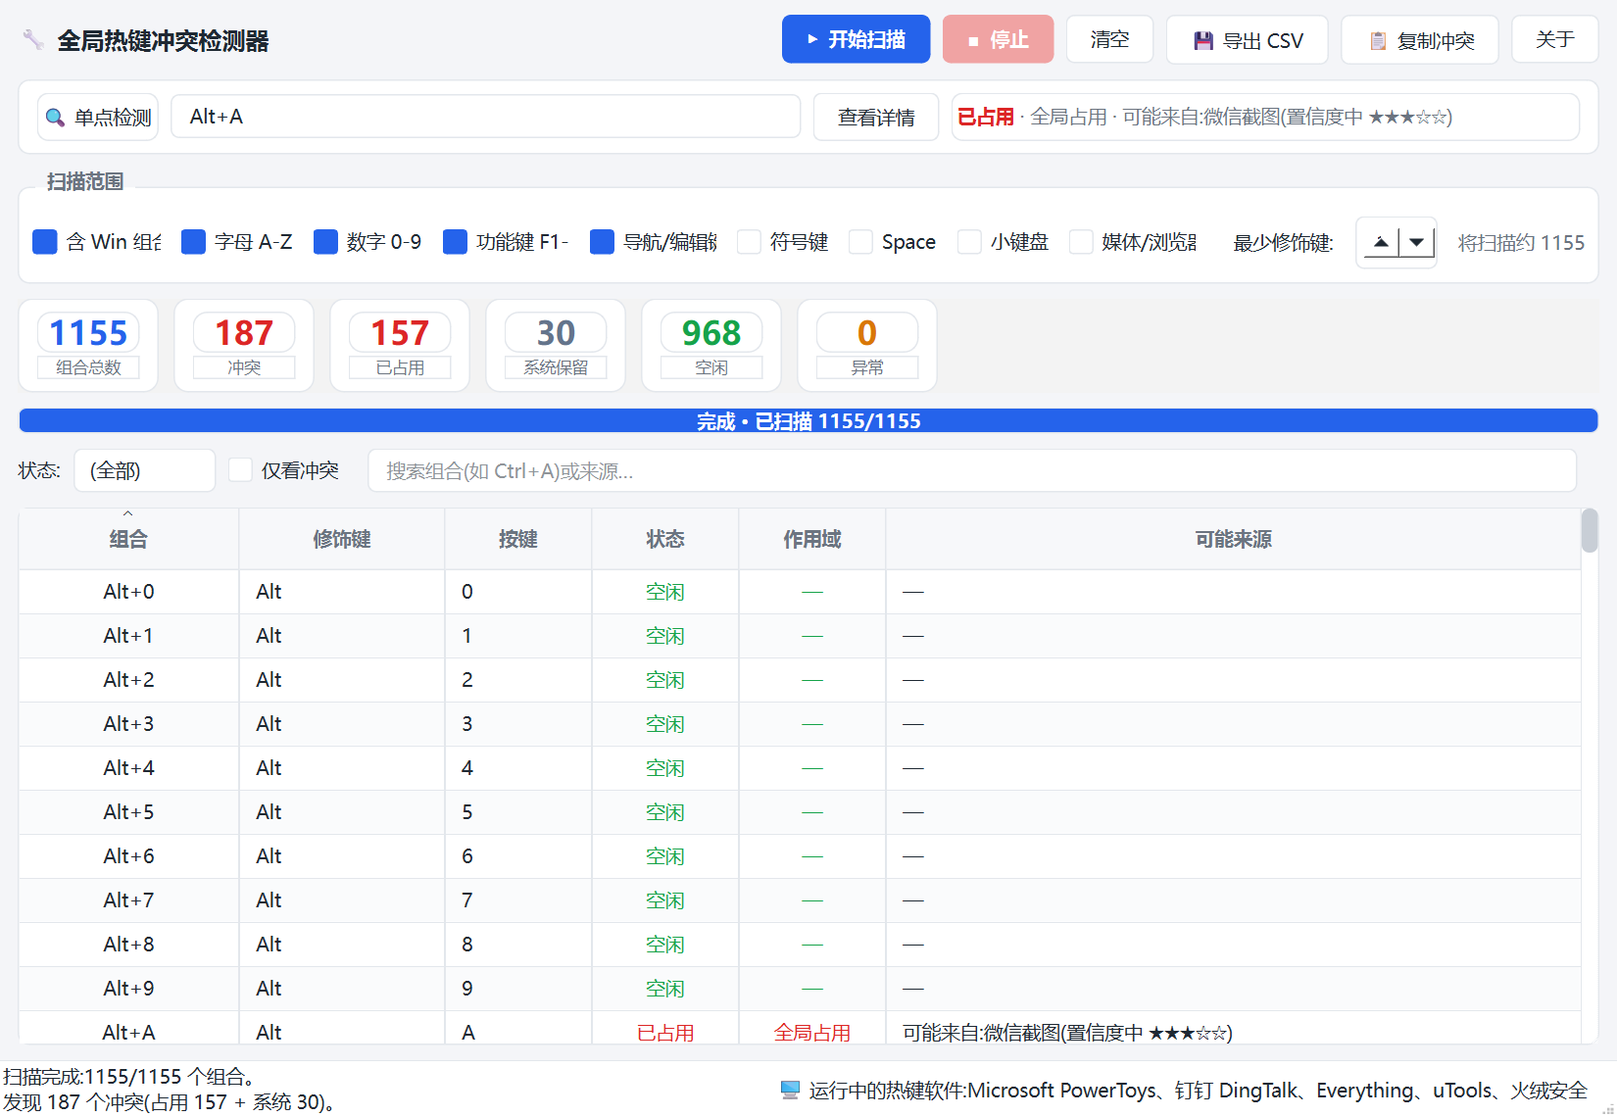
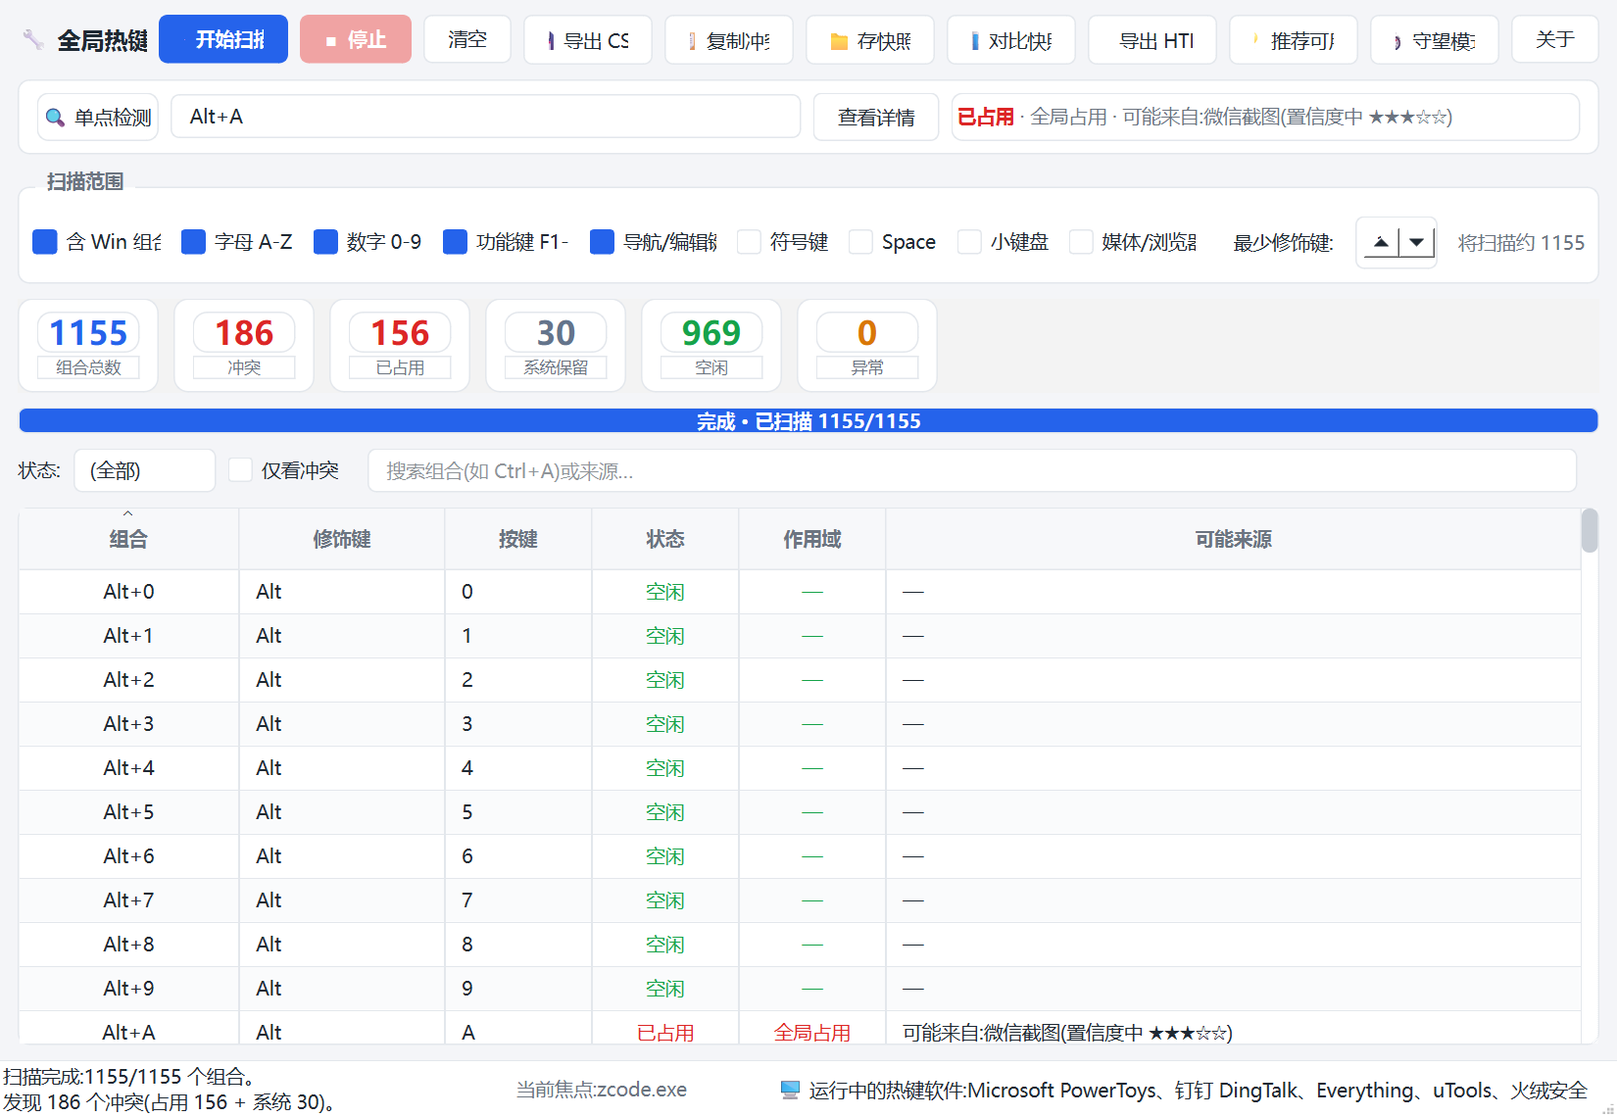
docs(README): v1.3.0 重写——诊断链路定位 + AI 章节 + 星级语义 + 更新日志 + Star 引导
- tagline 升级为「不只告诉你哪个热键被占,还帮你推断是谁占的」,加英文副标
- 功能特性补齐 v1.2/v1.3(嫌疑度排序、AI 分析、快照热键软件关联、守望)
- 新增「AI 辅助分析」章节(配置/隐私边界/http 提示)与「星级语义」说明
- 项目结构同步现状(core 零 Qt 分层 / scan_thread / workers / suspect / ai_analyze)
- CI 说明更新(unit 阻塞 + smoke 容错);新增 Downloads badge
- 更新日志折叠(1.0→1.3);结尾 Star 引导
- 用 capture_preview.py 重截三张图(detail 现含嫌疑度排序 + AI 按钮)

diff --git a/README.md b/README.md
@@ -2,44 +2,50 @@
 
 # ⌨ 全局热键冲突检测器
 
-**一个 Windows 桌面工具,扫描系统中已被占用的全局热键组合,帮你排查快捷键冲突。**
+**Hotkey Conflict Detector — 不只告诉你哪个热键被占,还帮你推断是谁占的。**
+
+一个 Windows 桌面工具:秒级扫描所有全局热键组合,推断占用来源嫌疑度,
+守望「时好时坏」的间歇占用,快照对比装机前后的差异。
 
 ![Version](https://img.shields.io/github/v/release/hss-ai/hotkey-conflict-detector?label=%E7%89%88%E6%9C%AC&logo=git)
 ![License](https://img.shields.io/github/license/hss-ai/hotkey-conflict-detector?color=blue)
 ![Python](https://img.shields.io/badge/Python-3.10%2B-blue?logo=python&logoColor=white)
 ![Platform](https://img.shields.io/badge/Platform-Windows-0078D6?logo=windows&logoColor=white)
 ![CI](https://img.shields.io/github/actions/workflow/status/hss-ai/hotkey-conflict-detector/ci.yml?label=CI&logo=githubactions&logoColor=white)
+![Downloads](https://img.shields.io/github/downloads/hss-ai/hotkey-conflict-detector/total?color=brightgreen&label=%E4%B8%8B%E8%BD%BD)
 
-[⬇ 下载 exe](#-快速开始) · [📖 文档](#-工作原理) · [🐛 报告问题](https://github.com/hss-ai/hotkey-conflict-detector/issues)
+[⬇ 下载 exe](#-快速开始) · [✨ 功能](#-功能特性) · [📖 工作原理](#-工作原理) · [🤖 AI 分析](#-ai-辅助分析可选) · [🐛 报告问题](https://github.com/hss-ai/hotkey-conflict-detector/issues)
 
 ---
 
-<img src="assets/preview.png" alt="主界面" width="860">
+<img src="assets/preview.png" alt="主界面:统计卡片 + 组合表格 + 单点检测" width="860">
 
 </div>
 
 ## 🎯 解决什么问题
 
-装了一堆软件后,快捷键经常打架:微信截图、QQ 截图、Snipaste、输入法、PowerToys……各自占了一堆 `Ctrl+Alt+X` / `Alt+Y`,你想设一个新的全局热键却总是"注册失败",又不知道是谁在抢。
+装了一堆软件后,快捷键经常打架:微信截图、QQ 截图、Snipaste、输入法、PowerToys……各自占了一堆 `Ctrl+Alt+X` / `Alt+Y`。你想给新软件设一个全局热键,却总是"注册失败",又不知道是谁在抢。
 
-本工具逐个探测所有常见的修饰键 + 按键组合,告诉你:
+Windows **不提供**"哪个进程占用了哪个热键"的 API,所以市面工具最多告诉你"被占了"。本工具把能拿到的信号全部串起来,做成一条**诊断链路**:
 
-- 哪些组合**已被占用**(无法再注册)
-- 哪些是 **Windows 系统保留**的(如 `Win+D`、`Alt+Tab`、`Ctrl+Alt+Del`)
-- 哪些**空闲**可用
-- 尽力推断占用**来源**(微信 / 钉钉 / QQ 等常见软件的默认热键)
+> 🔍 **扫描**哪些组合被占 → 🕵 **推断**占用来源嫌疑度(星级证据链)→
+> 🔎 **二分定位**逐个关软件实锤 → ⏱ **守望**间歇性占用 → 📊 **快照对比**装机前后差异 → 🤖 可选接入 **AI** 给排查建议
+
+- 哪些组合**已被占用**(无法再注册)、哪些是 **Windows 系统保留**(`Win+D`、`Alt+Tab`…)、哪些**空闲**可用
+- 被占用的组合,给出**嫌疑度排序**(命中默认热键 / 进程在运行 / 软件类别启发式,星级区分证据强度)
+- 推断不出来?**来源定位助手**引导你二分排查;**守望模式**抓"时好时坏"的间歇占用;**快照对比**直接 diff 出"装了某软件后新增的占用"
 
 ## 📦 快速开始
 
 ### 方式一:下载 exe(推荐,免装 Python)
 
-前往 [Releases 页面](https://github.com/hss-ai/hotkey-conflict-detector/releases),下载最新版 `HotkeyConflictDetector-x.y.z-windows-x64.exe`,**双击即可运行**。
+前往 [Releases](https://github.com/hss-ai/hotkey-conflict-detector/releases),下载最新版 `HotkeyConflictDetector-x.y.z-windows-x64.exe`,**双击即可运行**。
 
 > 💡 建议右键「以管理员身份运行」——非管理员探测时,可能因 UIPI 把管理员进程占用的热键误判为空闲。
 
 ### 方式二:源码运行
 
-需要 **Windows** + **Python 3.10+**(依赖 Win32 `RegisterHotKey` API)。
+需要 **Windows** + **Python 3.10+**(依赖 Win32 `RegisterHotKey` API,零第三方依赖除 PySide6):
 
 ```bash
 pip install -r requirements.txt
@@ -53,21 +59,24 @@ python main.py
 <td width="50%" valign="top">
 
 **🚀 秒级全量扫描**
-默认 1300+ 组合,<1 秒完成。后台线程执行,UI 全程不卡顿。
+默认 1300+ 组合,<1 秒完成。后台线程执行,UI 全程不卡;中途停止可**续扫剩余**。
 
 **🔍 单点检测**
 顶部捕获框聚焦后按下想设的热键(如 `Ctrl+Alt+J`),即时探测这一个,无需全量扫描。
 
-**🩺 详情诊断面板**
-双击任意行 → 弹出 VK 码 / 作用域 / 来源证据链 / 排障建议,一键复制诊断信息。
+**🕵 嫌疑度排序 + 证据链**
+双击任意行 → 详情面板给出 VK 码 / 作用域 / 证据链 / 排障建议。**5★ = 精确命中该软件默认热键,4★ 及以下 = 启发式推断**——星级语义诚实区分"实锤"与"猜测"。
 
-**🔗 来源证据链 + 置信度**
-占用项标注 `✓进程在运行` / `✓命中默认热键` / `✗API无法直接确认`,附星级置信度,不再"瞎猜"。
+**🤖 AI 辅助来源分析(可选)**
+自配 OpenAI 兼容端点,把热键 + 嫌疑排序 + 进程列表发给你的 LLM,换取嫌疑度排序与"改哪个软件的哪个设置"建议。[详见下文](#-ai-辅助分析可选)。
+
+**🔎 来源定位助手(二分定位法)**
+Windows 不告知占用者?引导你逐个关闭可疑软件 + 重测,状态变绿即锁定真凶。
 
 </td>
 <td width="50%" valign="top">
 
-<img src="assets/detail.png" alt="详情诊断面板" width="100%">
+<img src="assets/detail.png" alt="详情诊断面板:证据链 + 嫌疑度排序 + AI 分析" width="100%">
 
 </td>
 </tr>
@@ -79,43 +88,44 @@ python main.py
 </td>
 <td width="50%" valign="top">
 
-**🎛 可配置扫描范围**
-字母 / 数字 / 功能键 / 导航键 / 符号键 / 小键盘 / 多媒体·浏览器键 / Win 组合,按需勾选。
+**⏱ 守望模式**
+对一个组合持续探测,记录状态时间线,捕捉「时好时坏」的**间歇性占用**及转变瞬间的运行软件,冲突转变蜂鸣提醒。
 
-**🎨 可视化表格**
-状态着色、按冲突优先级排序,支持状态 / 搜索 / 仅冲突筛选。
+**📁 快照对比(装机前后 diff)**
+扫描结果存快照;两份快照对比「新增占用 / 已释放 / 状态变化」,并关联**当时运行的热键软件变化**——"装了 X 之后多了 3 个占用"直接可见。
 
-**📊 统计卡片**
-总数 / 冲突 / 已占用 / 系统保留 / 空闲 / 异常,一目了然。
+**💡 空闲热键推荐**
+不只告诉你哪些被占——按友好度推荐当前可安全使用的组合(`Ctrl+Alt+字母` 优先,避开 Win/小键盘)。
 
-**🖥 运行中软件检测**
-状态栏列出本机正在运行的热键软件。
+**📄 HTML 报告 / CSV 导出**
+一键导出自包含 HTML 报告(统计卡片 + 冲突表 + 来源 Top + 嫌疑标注),或 CSV 留档。
 
-**💾 导出与分享**
-导出 CSV 留档,或一键复制冲突列表到剪贴板。
+**🎛 可配置扫描 + 运行软件检测**
+字母 / 数字 / 功能键 / 导航 / 符号 / 小键盘 / 媒体键 / Win 组合按需勾选;状态栏实时列出运行中的热键软件、高亮当前焦点应用。
 
 </td>
 </tr>
 </table>
 
-## 🆕 v1.1.0 新功能
+<details>
+<summary>⏱ 守望模式 / 📁 快照对比长什么样?(说明)</summary>
 
-本版新增 7 项能力,让检测器从「一次性扫描」升级为「持续诊断 + 差异对比」:
+**守望模式**:选一个组合 + 探测间隔,后台定时探测。时间线每行记录「时刻 / 状态 / 当时运行软件」;状态在 冲突↔空闲 之间转变时蜂鸣并在摘要里高亮——专治"某软件周期性注册/注销热键"导致的时好时坏。
 
-| 功能 | 说明 |
-|---|---|
-| **📁 快照对比** | 扫描后存快照;装软件前后各存一份,对比即知「谁抢了热键」——新增占用 / 已释放 / 状态变化三类 diff |
-| **📄 HTML 报告** | 一键导出自包含 HTML 报告(统计卡片 + 冲突表 + 来源 Top),可分享存档 |
-| **💡 推荐可用** | 扫描后正向推荐当前空闲、可安全使用的组合(按 `Ctrl+Alt+字母` 友好度排序) |
-| **🎯 前台应用上下文** | 状态栏实时显示当前焦点应用,已知热键软件红色高亮提醒 |
-| **⏱ 守望模式** | 对一个组合持续探测,记录状态时间线,捕捉「时好时坏」的间歇性占用及当时运行软件 |
-| **🔧 热键库可扩展** | 在 `~/.hotkey_detector/user_hotkeys.json` 追加自定义软件热键,证据链会一并考虑 |
-| **▶ 扫描续扫** | 中途停止后,再次扫描可选「继续扫描剩余」而非重来 |
+**快照对比**:每次扫描可存带元数据的 JSON 快照。之后任意两份对比:
+
+```text
+🆕 新增占用 (3)   ← 装机后新出现的占用
+✅ 已释放 (1)     ← 装机前被占、现在空闲
+🖥 热键软件变化    ← +uTools  −Snipaste(新增占用时优先排查新启动的软件)
+```
+
+</details>
 
 <details>
-<summary>📖 用户热键库 JSON 格式(点击展开)</summary>
+<summary>🔧 用户热键库扩展(JSON)</summary>
 
-在 `~/.hotkey_detector/user_hotkeys.json` 放置(目录不存在会自动创建,可用环境变量 `HOTKEY_DETECTOR_HOME` 覆盖位置):
+在 `~/.hotkey_detector/user_hotkeys.json` 追加自定义软件热键(目录不存在会自动创建,可用环境变量 `HOTKEY_DETECTOR_HOME` 覆盖位置):
 
 ```json
 {
@@ -129,7 +139,7 @@ python main.py
 }
 ```
 
-`modifiers` 支持整数位掩码、`["Ctrl","Alt"]` 列表或 `"Ctrl+Alt"` 字符串;`vk` 是 Win32 虚拟键码(A=0x41、J=0x4A …)。文件损坏或缺失不影响内置库。
+`modifiers` 支持整数位掩码、`["Ctrl","Alt"]` 列表或 `"Ctrl+Alt"` 字符串;`vk` 是 Win32 虚拟键码(A=0x41、J=0x4A …)。文件损坏或缺失不影响内置库;证据链与嫌疑度排序会一并考虑用户条目。
 
 </details>
 
@@ -151,98 +161,125 @@ Windows **没有提供**"枚举所有已注册全局热键"的官方 API。但 `
 
 本工具能可靠检测的是 `RegisterHotKey` 类全局热键的**注册冲突**(能不能注册成功)。无法可靠区分/检测:
 
-- ☓ 占用方到底是谁(程序注册 / 系统保留 / `WH_KEYBOARD_LL` 钩子,都返回同一个 1409)
+- ☓ 占用方到底是谁(程序注册 / 系统保留 / `WH_KEYBOARD_LL` 钩子,都返回同一个 1409)——所以来源只能给**推断 + 嫌疑度**,配合「二分定位」实锤
 - ☓ 应用**内部**快捷键(如 Word 的 `Ctrl+B`,只在程序内生效、不占用全局槽位)
 - ☓ 管理员权限进程占用的热键(探测器非管理员时可能因 UIPI 误判为空闲)——建议**以管理员身份运行**以获得更准结果
 
-### 🔎 关于"来源识别"与"二分定位"
+### 🔎 星级语义(5★ 与 4★ 的区别)
 
-Windows **不告知**哪个进程占用了哪个热键,因此来源识别只能尽力推断:
+- **★★★★★**:精确命中已知软件的**默认热键**(如 `Ctrl+Alt+A` ↔ QQ 截图)且进程在运行——强证据
+- **★★★★☆ 及以下**:启发式累加(同按键不同修饰键 / 软件类别爱占热键 / 进程名特征),**无论怎么叠都到不了 5★**——明确弱于精确命中,不为"看起来确定"而虚标
 
-- 扫描正在运行的进程,匹配"已知会注册全局热键的软件"清单(状态栏显示);
-- 对常见软件的**默认**热键做硬编码映射(如微信 `Alt+A`、钉钉 `Ctrl+Shift+A`、QQ `Ctrl+Alt+A`)。
+## 🤖 AI 辅助分析(可选)
 
-推断结果**不保证准确**——用户可能改过快捷键,或软件用全局钩子(而非 `RegisterHotKey`)实现热键。结果仅供排障参考。
+不想逐个排查?把热键 + 本地嫌疑排序 + 进程列表发给**你自己配置的** LLM,换取嫌疑度排序与具体排查建议(如"检查 PowerToys Run → Shortcut guide 设置")。
 
-当推断无法定位时,可使用「来源定位助手」(二分定位法):工具引导你逐批关闭可疑进程,边关边重扫,逐步锁定真正占用者,解决"查不到占用者"的死结。
+- **端点**:任意 OpenAI 兼容 `/chat/completions`(OpenAI / DeepSeek / GLM / Ollama / 中转站均可)
+- **配置**:详情面板 → 「⚙ AI 设置」填 Base URL / API Key / 模型名,可一键测试连通
+- **隐私**:API Key 只存本机 `~/.hotkey_detector/ai_config.json`,不进报告/快照;**不配置不联网**,只在点击「AI 分析」时发起请求;`http://` 明文端点会给出风险提示
+- 请求在后台线程执行,慢网络不冻结界面
 
 ## 🚀 使用说明
 
-1. 在"扫描范围"勾选要检测的按键类别(默认全选)
-2. 点 **▶ 开始扫描**
-3. 查看表格——默认按状态列排序,**冲突项排在最前**
-4. 用筛选栏(状态 / 仅冲突 / 搜索)快速定位,例如搜索 `Alt+A`
-5. **导出 CSV** 留档,或**复制冲突**到剪贴板
+1. 在"扫描范围"勾选要检测的按键类别(默认全选主流键)
+2. 点 **▶ 开始扫描**——表格按冲突优先级排序,**冲突项排在最前**
+3. **双击任意行**进入详情诊断(证据链 + 嫌疑度排序 + 建议)
+4. 需要实锤 → 「🔎 定位占用来源」;时好时坏 → 工具栏「⏱ 守望模式」;装机排查 → 「📁 存快照」+「📊 对比快照」
+5. **导出 HTML/CSV** 留档,或**复制冲突**到剪贴板
 
-## 🛠 技术栈
+## 🛠 技术栈与架构
 
-- **Python 3.10+**
-- **PySide6 (Qt6)** —— UI 框架
-- **ctypes** —— 直接调用 Win32 `RegisterHotKey` / `UnregisterHotKey` / `CreateToolhelp32Snapshot`,**零额外原生依赖**(除 PySide6)
-
-## 📁 项目结构
+- **Python 3.10+ / PySide6 (Qt6)**,除 PySide6 外**零第三方依赖**
+- Win32 调用一律 **ctypes**(`RegisterHotKey` 探测 / toolhelp32 进程枚举 / `QueryFullProcessImageNameW` 按 PID 直查)
+- 分层底线:`core/` 纯检测与数据逻辑**不依赖 Qt**(CI 可在无桌面环境跑全部纯逻辑单测),`ui/` 只做界面与线程封装
 
 ```
 hotkey-conflict-detector/
-├── main.py                          # 入口
-├── core/
-│   ├── _version.py                  # 版本号单点真源(与 git tag 对应)
-│   ├── _known_data.py               # 内置热键库 + 用户 JSON 扩展 [v1.1]
-│   ├── hotkeys.py                   # 修饰键 / 虚拟键码 / 组合生成 / 系统保留表
-│   ├── detector.py                  # RegisterHotKey 探测引擎 + QThread 扫描器(支持续扫)
-│   ├── apps.py                      # 进程扫描 + 已知热键来源推断
-│   ├── snapshot.py                  # 扫描快照:序列化 / save / load / diff [v1.1]
-│   ├── report.py                    # HTML 报告渲染 [v1.1]
-│   ├── recommend.py                 # 空闲热键推荐排序 [v1.1]
-│   ├── foreground.py                # 前台窗口进程探测 [v1.1]
-│   └── watch.py                     # 守望状态机 + 转变检测 [v1.1]
-├── ui/
-│   ├── style.py                     # QSS 样式表与配色
-│   ├── models.py                    # 表格模型 + 筛选代理
-│   ├── detail_dialog.py             # 详情诊断面板
-│   ├── locate_dialog.py             # 来源定位助手(二分定位法)
-│   ├── snapshot_dialog.py           # 快照对比对话框 [v1.1]
-│   ├── recommend_dialog.py          # 空闲推荐对话框 [v1.1]
-│   ├── watch_dialog.py              # 守望模式对话框 [v1.1]
-│   └── main_window.py               # 主窗口
-├── tests/                           # 各模块独立单测 + offscreen 冒烟(CI 友好)
-├── .github/workflows/               # CI / 自动构建发布
-└── assets/                          # 截图
+├── main.py                     # 入口
+├── core/                       # 纯逻辑层(零 Qt,CI Session 0 可测)
+│   ├── detector.py             #   RegisterHotKey 探测引擎(纯 ctypes)
+│   ├── hotkeys.py              #   修饰键 / 虚拟键码 / 组合生成 / 系统保留表
+│   ├── apps.py                 #   进程扫描 + 已知热键来源推断
+│   ├── _known_data.py          #   内置热键库 + 用户 JSON 扩展合并
+│   ├── suspect.py              #   嫌疑度排序(5★ 精确命中 / 4★ 封顶启发式)
+│   ├── ai_analyze.py           #   AI 辅助分析(OpenAI 兼容,零依赖 urllib)
+│   ├── snapshot.py             #   快照序列化 / diff(含热键软件环境变化)
+│   ├── watch.py                #   守望状态机 + 转变检测
+│   ├── recommend.py / report.py / foreground.py
+│   └── _version.py             #   版本号单点真源(与 git tag 对应)
+├── ui/                         # PySide6 界面层
+│   ├── main_window.py          #   主窗口
+│   ├── scan_thread.py          #   扫描 QThread(core 不依赖 Qt 的分层底线)
+│   ├── workers.py              #   通用后台 FnWorker(网络请求防 UI 冻结)
+│   ├── detail_dialog.py / locate_dialog.py / watch_dialog.py
+│   ├── snapshot_dialog.py / recommend_dialog.py / ai_settings_dialog.py
+│   └── models.py / style.py    #   表格模型 / QSS 语义配色单点
+├── tests/                      # 各模块独立单测 + offscreen 冒烟
+└── .github/workflows/          # CI(纯逻辑单测阻塞)+ 自动构建发布
 ```
 
 ## 💻 开发与测试
 
-本地跑离屏冒烟测试(无需真实显示设备):
-
 ```bash
 pip install -r requirements.txt
-# Windows PowerShell
-$env:QT_QPA_PLATFORM="offscreen"; python tests/test_smoke_offscreen.py
-# 或 Git Bash
+
+# 全部纯逻辑单测(零 Qt,任何环境可跑)
+python tests/test_suspect.py && python tests/test_snapshot.py && ...
+
+# 离屏冒烟(含真实扫描,需 Windows 桌面会话)
 QT_QPA_PLATFORM=offscreen python tests/test_smoke_offscreen.py
 ```
 
-> ⚠ **关于 CI**:GitHub-hosted 的 Windows runner 运行在 Session 0(无交互桌面),`import PySide6` / 创建 `QApplication` 会原生崩溃(进程在 Python 异常处理前被杀,本地无法复现)。因此 CI 的 smoke job 设为 `continue-on-error`——**冒烟测试请以本地运行为准**。
+> ⚠ **CI 说明**:GitHub-hosted Windows runner 运行在 Session 0(无交互桌面),`import PySide6` / 创建 `QApplication` 会原生崩溃(本地无法复现)。因此 CI 拆两个 job:**unit**(全部纯逻辑单测,core 零 Qt,Session 0 安全,失败阻塞)+ **smoke**(需 Qt,`continue-on-error`,以本地运行为准)。
 
 本地打包 exe:
 
 ```bash
 pip install pyinstaller
 pyinstaller --noconsole --onefile --clean --name HotkeyConflictDetector main.py
-# 产物在 dist/HotkeyConflictDetector.exe(约 48MB)
 ```
+
+## 🗓 更新日志
+
+<details>
+<summary>📖 展开各版本</summary>
+
+### v1.3.0
+
+- **快照记录热键软件环境**:diff 新增「新启动 / 已退出」的热键软件,与「新增占用」并排展示——装机排查直接看到"谁来了之后热键被抢"
+- **星级语义修正**:5★ 专属「精确命中默认热键」,启发式累加封顶 4★,不再伪装确定结论
+- **性能**:前台应用探测改为按 PID 直查(`OpenProcess + QueryFullProcessImageNameW`),不再每 3 秒全表扫描进程
+- **AI 设置**:`http://` 明文端点风险提示(不拦保存,尊重内网自建)
+- 修复:复制按钮反馈落错按钮、AI 线程生命周期、设置页测试连通冻结 UI、API Key 脱敏泄露、core 分层违规(ScanThread 迁至 ui 层)
+
+### v1.2.0
+
+- **嫌疑度排序**:证据链未命中时,按"命中默认热键 / 同按键改修饰键 / 软件类别 / 进程名特征"启发式打分,给出排序列表
+- **AI 辅助来源分析**:自配 OpenAI 兼容端点,LLM 给出嫌疑度排序 + 排查建议
+- 详情面板集成嫌疑度区块与 AI 按钮
+
+### v1.1.0
+
+- 快照对比 / HTML 报告 / 空闲推荐 / 前台应用上下文 / 守望模式 / 用户热键库扩展 / 扫描续扫
+
+### v1.0.0
+
+- 全量扫描 / 单点检测 / 证据链推断 / 二分定位 / CSV 导出
+
+</details>
 
 ## 🏷 版本管理
 
-版本号遵循 [语义化版本(SemVer)](https://semver.org/lang/zh-CN/),单点真源为 [`core/_version.py`](core/_version.py),与 git tag 一一对应(`v1.0.0` ↔ `"1.0.0"`)。
+版本号遵循 [语义化版本(SemVer)](https://semver.org/lang/zh-CN/),单点真源为 [`core/_version.py`](core/_version.py),与 git tag 一一对应(`v1.0.0` ↔ `"1.0.0"`)。推送 `v*` tag 后 GitHub Actions 自动构建 Windows exe 并发布 Release。
 
-发版流程:
+---
 
-1. 更新 `core/_version.py` 的 `__version__`
-2. 提交改动
-3. `git tag vX.Y.Z && git push origin vX.Y.Z`
-4. GitHub Actions 自动构建 Windows exe 并发布 Release ✅
+<div align="center">
 
-## 📄 许可证
+**如果这个工具帮你揪出了抢热键的"真凶",欢迎点一个 ⭐ Star 让更多人看到。**
 
-[MIT](LICENSE)
+发现问题或想提功能?欢迎 [提 Issue](https://github.com/hss-ai/hotkey-conflict-detector/issues) · [提 PR](https://github.com/hss-ai/hotkey-conflict-detector/pulls)
+
+📄 License: [MIT](LICENSE)
+
+</div>
